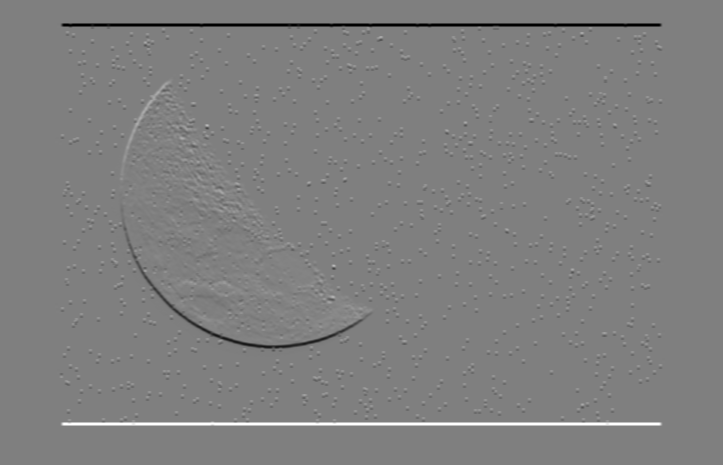
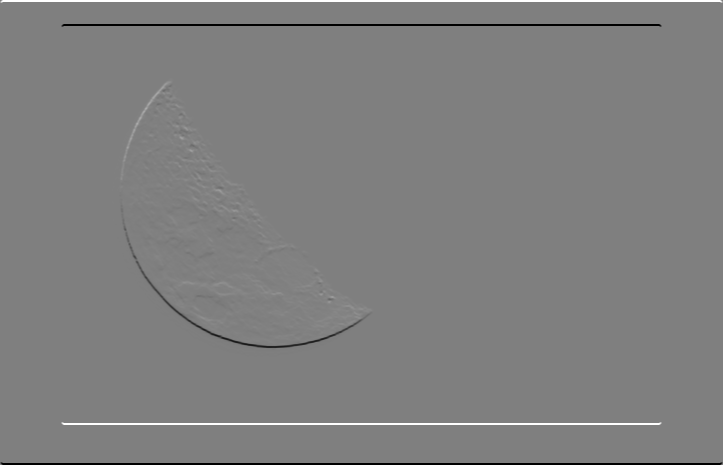
median filter

diff --git a/parte_3.py b/parte_3.py
@@ -30,7 +30,6 @@ def apply_kernel(img, kernel):
     output_img = output_img[sz:-sz, sz:-sz]
 
     # Normalize
-    # output_img = np.abs(output_img)
     output_img = (output_img - np.min(output_img)) / (np.max(output_img) - np.min(output_img)) * 255
 
     return output_img.astype(np.uint8)
@@ -121,6 +120,17 @@ def horizontal_components(img):
 
     return pw, sb, sc
 
+def median_filter(img):
+    output_img = np.zeros_like(img, dtype=np.int32)
+
+    for i in range(1, img.shape[0]-1):
+        for j in range(1, img.shape[1]-1):
+            values = img[i - 1:i + 2, j - 1:j + 2]
+            values = np.sort(values, axis=None)
+            output_img[i, j] = values[4]
+
+    return output_img.astype(np.uint8)
+
 
 def create_imgs(img, name):
     gx_pw, gx_sb, gx_sc = vertical_components(img)
@@ -158,7 +168,8 @@ def create_imgs(img, name):
 
 
 if __name__ == '__main__':
-    img_a = cv2.imread('imagens/saida/1_a_3.png', cv2.IMREAD_GRAYSCALE)
+    img_a = cv2.imread('imagens/entrada/Lua1_gray.jpg', cv2.IMREAD_GRAYSCALE)
+    img_a = median_filter(median_filter(img_a))
     img_b = cv2.imread('imagens/entrada/chessboard_inv.png', cv2.IMREAD_GRAYSCALE)
     create_imgs(img_a, 'lua')
     create_imgs(img_b, 'chessboard')
